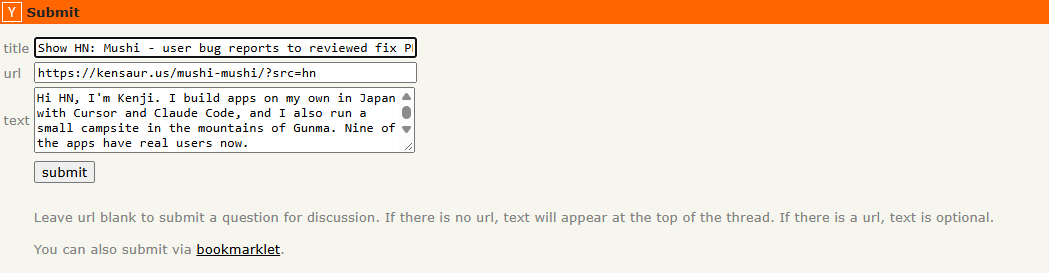
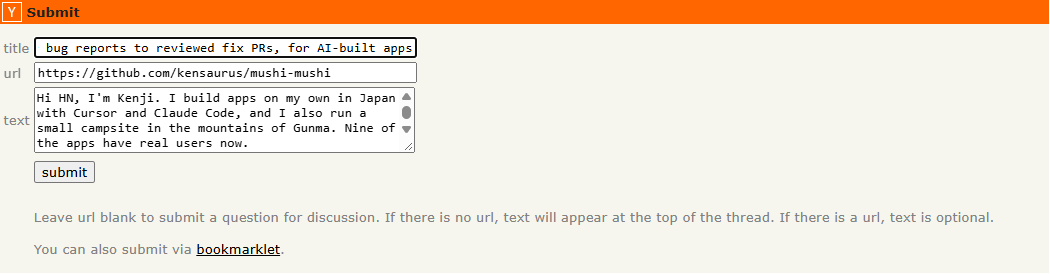
docs(launch): add verifiable links and images to the 2026-10-29 drafts

Changed region(s): [[0.0305, 0.3504, 0.3962, 0.5547], [0.0305, 0.146, 0.3962, 0.2044], [0.0, 0.2336, 0.3352, 0.292]]

diff --git a/docs/launch/2026-11/log/README.md b/docs/launch/2026-11/log/README.md
@@ -9,7 +9,7 @@ When a post goes live: set **Status** to `posted`, fill **Live URL** and
 `YYYY-MM-DD-<platform>-live.png`.
 
 Numbers in every post come from the public scoreboard
-(`GET /v1/public/scoreboard`, also https://kensaur.us/mushi-mushi/proof),
+(`GET /v1/public/scoreboard`, also https://kensaur.us/mushi-mushi/docs/proof),
 read 2026-10-29 at 00:02 UTC: 9 apps, 676 user reports from 314
 reporters, 234 fixes merged (median 26.4 h), 835 AI reviews, 304 of them
 "do not merge". The two blocked-fix stories are real reviews:
@@ -24,10 +24,38 @@ Problem first, in the owner's voice, with what is still rough. No hard sell.
 - Two true stories and the measured numbers, nothing rounded up.
 - Name what is still rough: nearly all use is the owner's own apps; a first-time
   visitor test got stuck at the login page; setup has too many steps.
-- End on a real question. On Reddit, say you built it and keep the link out of
-  the post.
+- End on a real question. On Reddit, say you built it, and link the code and
+  the held PR so readers can check, not a landing page.
 - No em dashes, no "Here's what I learned", no emoji hooks, no reflex lists of
   three, no "not X but Y", no price pitch up front.
+
+Every post gives readers something to check: the public repo
+(https://github.com/kensaurus/mushi-mushi), a held PR with the AI review in
+full (https://github.com/kensaurus/mushi-mushi/pull/864), the live numbers
+(https://kensaur.us/mushi-mushi/docs/proof), and npm (`npx mushi-mushi`,
+`@mushi-mushi/web`). The `/mushi-mushi/proof` path opens the console, not the
+proof page: always link `/mushi-mushi/docs/proof`.
+
+## Images
+
+All three are screenshots of public pages, so anyone can open the original.
+
+| File | What it shows | Original |
+|---|---|---|
+| ![](media/ai-review-hold-pr864.png) | The AI review on mushi-mushi PR #864: "Hold: don't merge this as it is", with the reasons | https://github.com/kensaurus/mushi-mushi/pull/864 |
+| ![](media/proof-numbers-2026-10-29.png) | The live numbers, as of 2026-10-29 00:31 UTC | https://kensaur.us/mushi-mushi/docs/proof |
+| ![](media/sample-diagnosis.png) | The docs' sample diagnosis (labelled SAMPLE on the page) | https://kensaur.us/mushi-mushi/docs/demo/diagnosis |
+
+Used on: X (first two), LinkedIn (all three). HN takes no images; r/SideProject
+allows none in a post body, so both link to the originals instead.
+
+## Where not to post yet
+
+r/vibecoding rule 2: "Vibe coding dev tools must be approved". A tool is
+submitted by posting about it in the Vibe Coding community on X
+(https://x.com/i/communities/1898129646782497027); if the moderators approve,
+they DM you on X and allow one introduction post. Rule 3 is "No shilling".
+Do that before any r/vibecoding post.
 
 Sources: Show HN guidelines (news.ycombinator.com/showhn.html: something people
 can try without sign-up, explain how and why you made it, no landing pages);
@@ -39,7 +67,7 @@ r/SideProject's sidebar (title format "[Project name] - [Short description]").
 | Platform | Account | Status | Live URL | Posted at |
 |---|---|---|---|---|
 | Hacker News (Show HN) | owner | drafted, not posted | | |
-| Reddit r/vibecoding | u/sakuramoto | drafted, not posted | | |
+| Reddit r/SideProject | u/sakuramoto | drafted, not posted | | |
 | X | owner | drafted, not posted | | |
 | LinkedIn | kenji sakuramoto | drafted, not posted | | |
 
@@ -48,7 +76,7 @@ r/SideProject's sidebar (title format "[Project name] - [Short description]").
 ![Show HN submit form, filled](2026-10-29-hn-draft.png)
 
 - **Title:** Show HN: Mushi - user bug reports to reviewed fix PRs, for AI-built apps
-- **URL:** https://kensaur.us/mushi-mushi/?src=hn
+- **URL:** https://github.com/kensaurus/mushi-mushi
 - **Text** (HN does not say whether text sent with a URL becomes the first
   comment; if it does not show on the post, paste it as the first comment):
 
@@ -63,20 +91,26 @@ Over the last 60 days on my own apps: 676 reports from 314 users, 234 fixes merg
 
 What is still rough: nearly all the use so far is my own. This week an AI playing a first-time visitor got stuck at our login page. Setup has more steps than I want.
 
-You can run a free check on any live site without signing up: https://kensaur.us/mushi-mushi/docs/check?src=hn
+Things you can check without signing up:
+- the code: https://github.com/kensaurus/mushi-mushi (SDKs MIT, server AGPL)
+- a held PR with the review in full: https://github.com/kensaurus/mushi-mushi/pull/864
+- the numbers above, counted live: https://kensaur.us/mushi-mushi/docs/proof
+- a free check of any live site: https://kensaur.us/mushi-mushi/docs/check?src=hn
 
-The SDKs are MIT and the server is AGPL. I would like to hear how you catch bad AI fixes today, and where this breaks for you.
+Install is npx mushi-mushi in your app folder; the browser SDK is @mushi-mushi/web on npm.
+
+Website: https://kensaur.us/mushi-mushi/?src=hn I would like to hear how you catch bad AI fixes today, and where this breaks for you.
 ```
 
 Post on a weekday morning US time and answer comments for the first hours.
 Not the same day as Reddit.
 
-### Reddit, r/vibecoding
+### Reddit, r/SideProject
 
-![r/vibecoding text post, filled](2026-10-29-reddit-draft.png)
+![r/SideProject text post, filled](2026-10-29-reddit-draft.png)
 
-- **Title:** Shipping AI-built apps to real users: the "it's broken" messages were the hard part. What I tried.
-- The subreddit requires a **flair**: pick one before submitting.
+- **Title:** Mushi - turns user bug reports into fix PRs, with a second AI that blocks the bad fixes
+- Title follows the sidebar format "[Project name] - [Short description]". No flair required.
 - The account has little karma (55 when drafted); a filter may hold the post
   for moderators.
 
@@ -90,14 +124,20 @@ So I asked agents to fix the reports. That helped, until I noticed how many fixe
 
 The first one passed CI. What caught them was a second model that reads the original report next to the diff and can say "do not merge". Over 60 days it said that 304 times out of 835 reviews, while 234 fixes did merge.
 
-I turned this into an open-source tool (I am the developer, so I am biased). It is still rough: almost nobody outside my own apps has used it yet, and the setup has too many steps.
+I turned this into an open-source tool (I am the developer, so I am biased). Here is a real review on one of its own PRs, where it said do not merge: https://github.com/kensaurus/mushi-mushi/pull/864
+
+The code: https://github.com/kensaurus/mushi-mushi
+
+The numbers above, counted live: https://kensaur.us/mushi-mushi/docs/proof It is still rough: almost nobody outside my own apps has used it yet, and the setup has too many steps.
 
 Mostly I am curious how others handle this. When your users report a bug in an app you built with AI, how do you find the cause, and how do you check that the AI's fix did not break something else?
 ```
 
 ### X
 
-![X compose box, filled](2026-10-29-x-draft.png)
+![X compose box, filled, two images attached](2026-10-29-x-draft.png)
+
+Images: media/ai-review-hold-pr864.png, media/proof-numbers-2026-10-29.png.
 
 One post (a 5-post thread was cut: threads with a hook line read as AI).
 
@@ -110,12 +150,17 @@ So agents fix the reports, and a second model checks each fix. In 60 days it sai
 Reply to it right after posting:
 
 ```text
-It's still rough. Nearly all the use is my own apps, and this week an AI playing a first-time visitor got stuck at our login page. If you ship AI-built apps, how do you check the AI's fixes? Free check for any live site: https://kensaur.us/mushi-mushi/docs/check?src=x
+It's still rough. Nearly all the use is my own apps, and this week an AI playing a first-time visitor got stuck at our login page.
+
+Code: https://github.com/kensaurus/mushi-mushi
+Live numbers: https://kensaur.us/mushi-mushi/docs/proof
 ```
 
 ### LinkedIn
 
-![LinkedIn post window, filled](2026-10-29-linkedin-draft.png)
+![LinkedIn post window, text](2026-10-29-linkedin-draft.png)
+
+![LinkedIn post window, the three attached images](2026-10-29-linkedin-draft-images.png)
 
 ```text
 I build apps on my own with AI coding tools, and I run a small campsite in the mountains of Gunma. Nine of the apps have real users now.
@@ -128,5 +173,7 @@ The blocked ones taught me the most. One fix corrected a label in Japanese, Thai
 
 I packaged this as an open-source tool called Mushi. It is early. Nearly all the use so far is my own, and the setup still has too many steps.
 
-If you run an app built with Lovable, Bolt, Cursor or Claude Code, I would like to hear how you handle bug reports from your users. There is a free check for any live site here: kensaur.us/mushi-mushi/docs/check?src=li
+If you run an app built with Lovable, Bolt, Cursor or Claude Code, I would like to hear how you handle bug reports from your users. The code is open: github.com/kensaurus/mushi-mushi
+The numbers above, counted live: kensaur.us/mushi-mushi/docs/proof
+A free check for any live site: kensaur.us/mushi-mushi/docs/check?src=li
 ```
